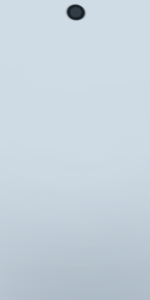
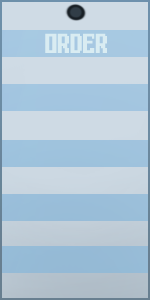
- додано кнопку 'take order' після натискання якої розпочинається стадія підготовки замовлення

diff --git a/src/OrderStation/OrderStation.java b/src/OrderStation/OrderStation.java
@@ -4,6 +4,7 @@ import Enums.OrderState;
 import Menu.*;
 import Menu.MenuElements.Ticket;
 import OrderStation.OrderElements.*;
+
 import java.awt.*;
 
 public class OrderStation {
@@ -12,13 +13,16 @@ public class OrderStation {
     private OrderTable orderTable = new OrderTable(0, 500, Game.WIDTH, 200);
     private OrderBackground background = new OrderBackground(0, 0, Game.WIDTH, 500);
     private Customer customer = new Customer(Game.WIDTH, 180, 260, 420);
-    public OrderStation(MainPanel.GamePanel parent){
+
+    public OrderStation(MainPanel.GamePanel parent) {
         this.parent = parent;
     }
-    public void draw(Graphics2D g2d){
-        switch (parent.orderState){
+
+    public void draw(Graphics2D g2d) {
+        drawBase(g2d);
+        switch (parent.orderState) {
             case WAITING_CUSTOMER:
-                moveCustomer();
+                moveCustomer(g2d);
                 moveCharacter();
                 break;
             case CUSTOMER_ORDERING:
@@ -26,24 +30,34 @@ public class OrderStation {
                 moveCharacter();
                 break;
         }
+    }
+
+    private void drawBase(Graphics2D g2d) {
         background.draw(g2d);
         customer.draw(g2d);
         orderTable.draw(g2d);
         orderFish.draw(g2d);
     }
 
-    private void moveCustomer(){
-        if(customer.gotToTable())
+    private void moveCustomer(Graphics2D g2d) {
+        if (customer.gotToTable()) {
+            customer.getOrderBubble().draw(g2d);
+            checkOrderBubble();
+        } else
+            customer.goToTable();
+    }
+    //я цей крінж зміню згодом
+    private void checkOrderBubble() {
+        if (parent.mouse.pressed && parent.mouse.x >= customer.getOrderBubble().getX() && parent.mouse.x <= customer.getOrderBubble().getX() + 200 && parent.mouse.y <= customer.getOrderBubble().getY() + 200  && parent.mouse.y >= customer.getOrderBubble().getY())
             parent.orderState = OrderState.CUSTOMER_ORDERING;
-        customer.goToTable();
     }
 
-    private void moveCharacter(){
+    private void moveCharacter() {
         orderFish.waitForCustomer();
     }
 
-    private void addEmptyTicket(){
-        if(!parent.pin.hasTicket())
+    private void addEmptyTicket() {
+        if (!parent.pin.hasTicket())
             parent.pin.setTicket(new Ticket(740, 20, 230, 420));
     }
 }

diff --git a/src/OrderStation/OrderElements/Customer.java b/src/OrderStation/OrderElements/Customer.java
@@ -5,6 +5,7 @@ import Elements.Node;
 public class Customer extends Node {
     //дописати рандомайзер вибору картинок для кастомерів
     private int yVelocity = -2;
+    private OrderBubble bubble = new OrderBubble(200, 40, 300, 300);
     public Customer(int x, int y, int width, int height) {
         super(x, y, width, height);
         image = getImage("/customer1.png");
@@ -15,6 +16,10 @@ public class Customer extends Node {
         if(y <= 140 || y >= 180)
             yVelocity*=-1;
         x-=3;
+    }
+
+    public OrderBubble getOrderBubble(){
+        return bubble;
     }
 
     public boolean gotToTable(){

diff --git a/src/OrderStation/OrderElements/OrderBubble.java b/src/OrderStation/OrderElements/OrderBubble.java
@@ -1,0 +1,10 @@
+package OrderStation.OrderElements;
+
+import Elements.Node;
+
+public class OrderBubble extends Node {
+    public OrderBubble(int x, int y, int width, int height) {
+        super(x, y, width, height);
+        image = getImage("/bubble.png");
+    }
+}

diff --git a/src/Elements/Node.java b/src/Elements/Node.java
@@ -34,4 +34,12 @@ public class Node {
     public void draw(Graphics2D g2d) {
         g2d.drawImage(image, x, y, width, height, null);
     }
+
+    public int getX() {
+        return x;
+    }
+
+    public int getY() {
+        return y;
+    }
 }
